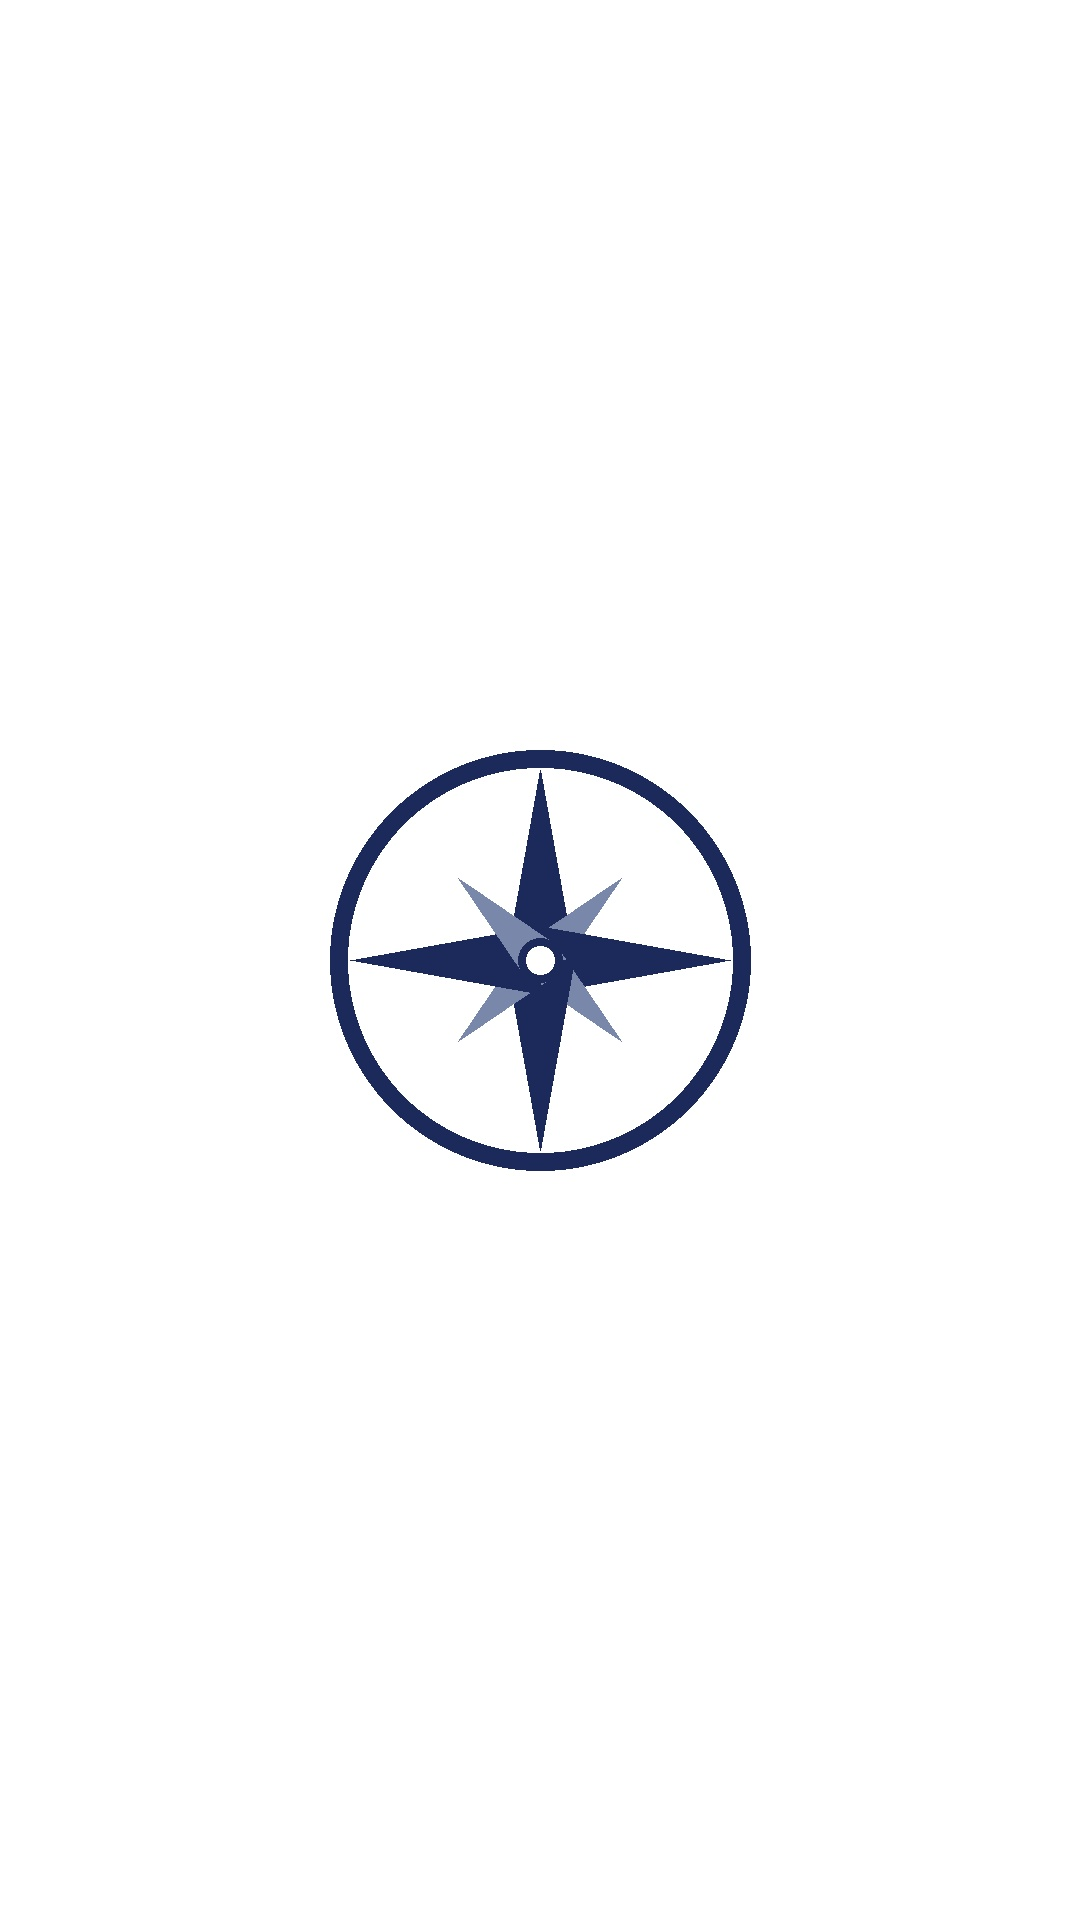
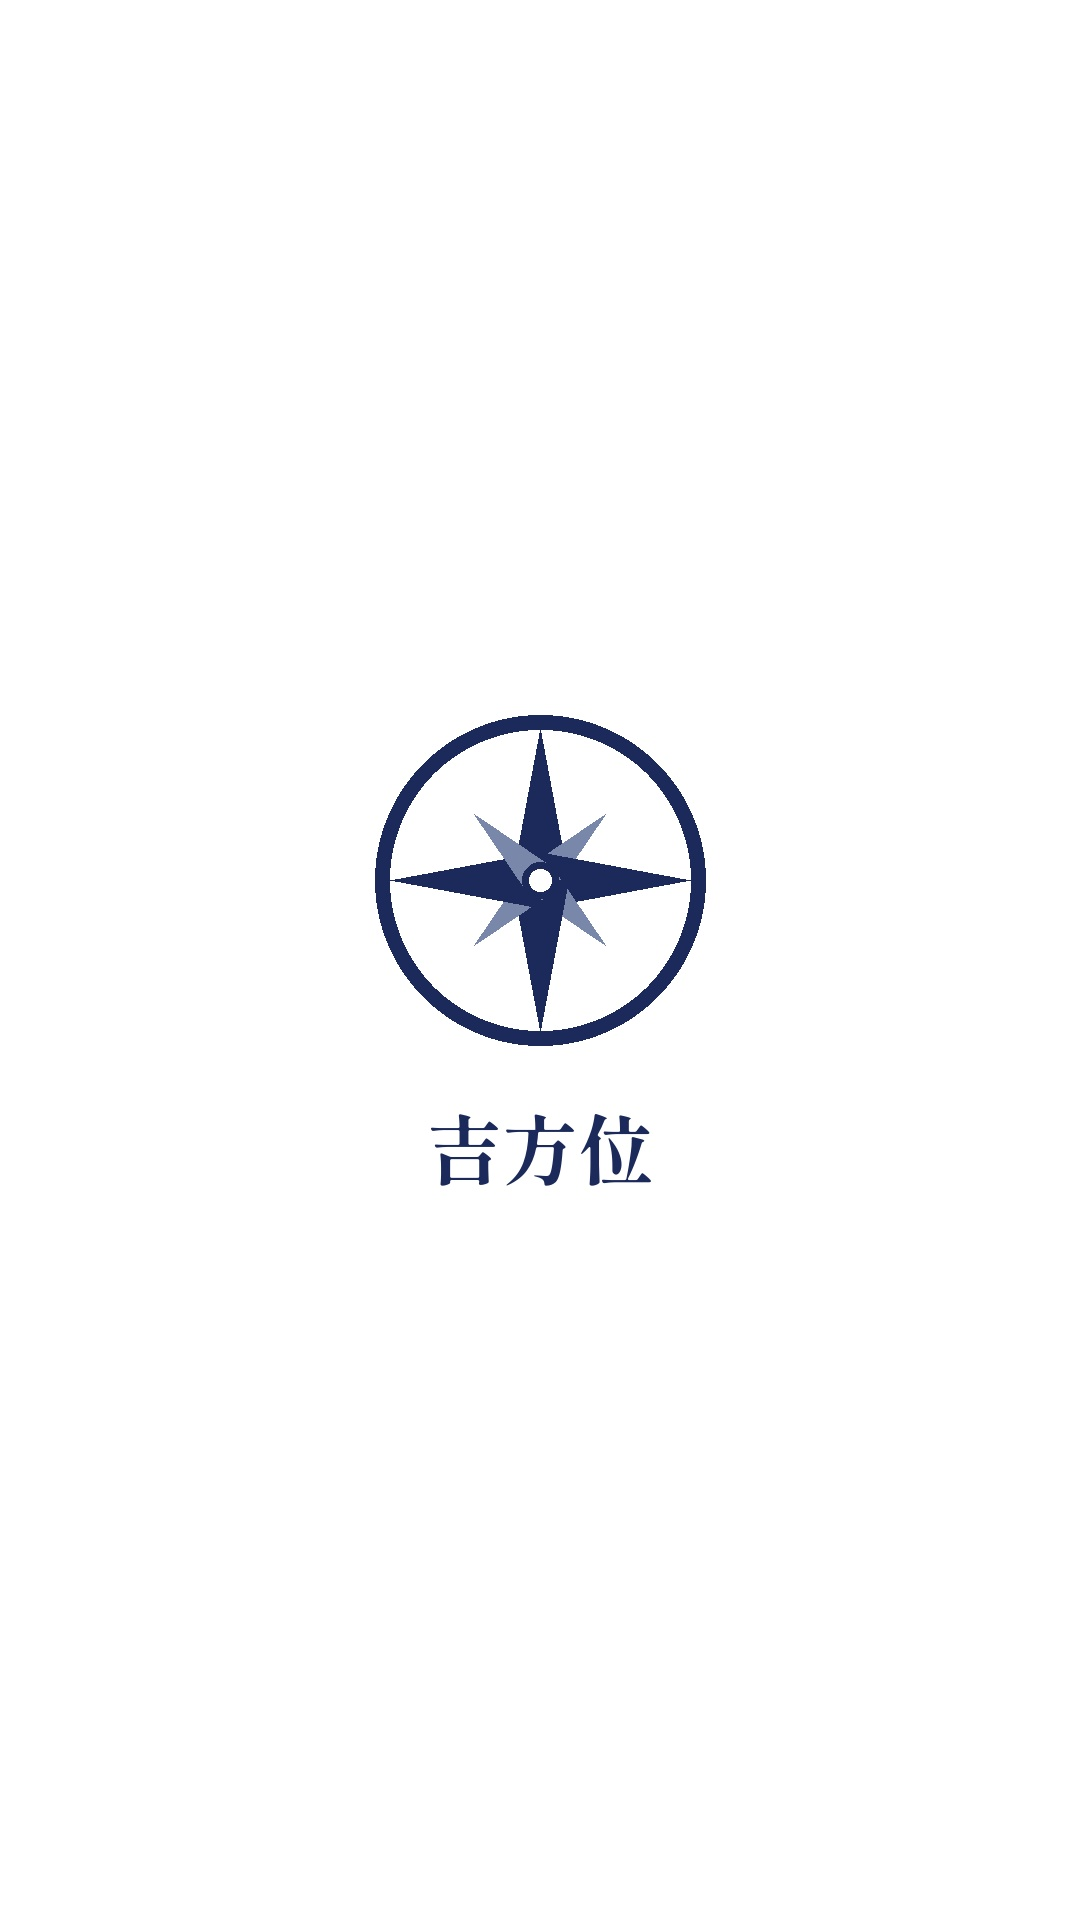
Highlight covers with labels (お茶会・吉方位)
Claude-Session: https://claude.ai/code/session_01QCjcdfeJxrrhGewX2BNazy

Changed region(s): [[0.3056, 0.375, 0.7028, 0.625]]

diff --git a/highlights/icon-white2.py b/highlights/icon-white2.py
@@ -1,0 +1,30 @@
+# 白背景・紺色のハイライト表紙に文字を入れた版。絵を上に少し小さく、文字を下に置く(中央の円の中に収める)
+import math, sys
+from PIL import Image, ImageDraw, ImageFont
+W,H=1080,1920; CX,CY=540,960; NAVY=(27,42,90)
+F8='/root/.cache/night-reel-fonts/ShipporiMinchoB1-800.ttf'
+def base():
+    im=Image.new('RGB',(W,H),(255,255,255)); return im, ImageDraw.Draw(im)
+def label(d,t):
+    f=ImageFont.truetype(F8,76); d.text((CX-d.textlength(t,font=f)/2,CY+130),t,font=f,fill=NAVY)
+def teacup(out):
+    im,d=base(); w=13; y0=CY-110; s=0.8
+    X=lambda v: CX+v*s
+    d.chord([X(-170),y0-120*s,X(130),y0+230*s],0,180,fill=NAVY)
+    d.ellipse([X(-170),y0-50*s,X(130),y0+40*s],fill=NAVY)
+    d.arc([X(80),y0-10*s,X(215),y0+120*s],-90,90,fill=NAVY,width=w)
+    d.ellipse([X(-240),y0+190*s,X(200),y0+245*s],fill=NAVY)
+    for dx in (-90,-20,50):
+        pts=[(X(dx)+16*math.sin(t/6),y0-70-t*3.2) for t in range(0,26)]
+        d.line(pts,fill=NAVY,width=10,joint='curve')
+    label(d,'お茶会'); im.save(out,quality=95)
+def compass(out):
+    im,d=base(); cy=CY-80; r=165
+    d.ellipse([CX-r,cy-r,CX+r,cy+r],outline=NAVY,width=15)
+    for k in range(8):
+        a=math.radians(k*45); L=150 if k%2==0 else 92; s=28 if k%2==0 else 18
+        tip=(CX+L*math.sin(a),cy-L*math.cos(a)); l=(CX+s*math.sin(a-math.pi/2),cy-s*math.cos(a-math.pi/2)); rr=(CX+s*math.sin(a+math.pi/2),cy-s*math.cos(a+math.pi/2))
+        d.polygon([tip,l,(CX,cy),rr],fill=NAVY if k%2==0 else (120,135,170))
+    d.ellipse([CX-18,cy-18,CX+18,cy+18],fill=(255,255,255),outline=NAVY,width=7)
+    label(d,'吉方位'); im.save(out,quality=95)
+teacup(sys.argv[1]+'/hl-ochakai-white.jpg'); compass(sys.argv[1]+'/hl-kippou-white.jpg')
